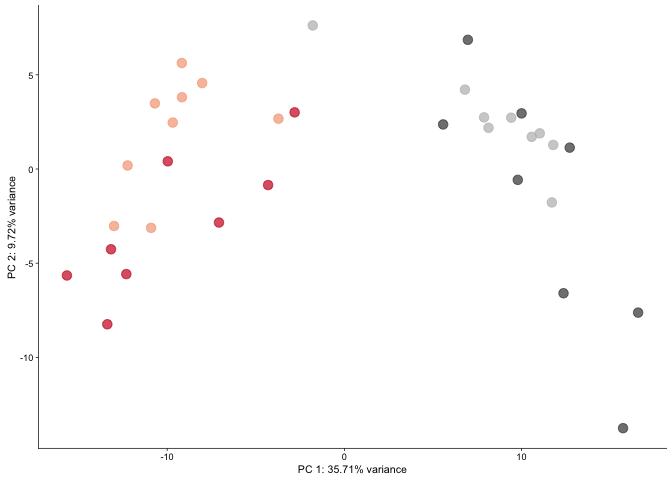
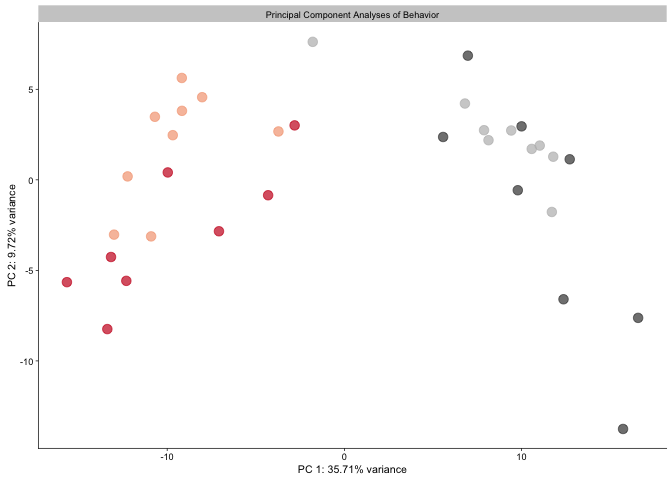
fixing figures links in md

diff --git a/RmdFiles/01b_behavior_figures.md b/RmdFiles/01b_behavior_figures.md
@@ -1,10 +1,11 @@
 After wrangling the behaivoral data in the previous script ([01a\_beahvior\_create\_dfs.Rmd](./01a_beahvior_create_dfs.Rmd)), conducted the analyses descirbed in this scipt. All plots are generate as **.png** files for markdown viewing and as **.pdf** files for incorporation to Adobe Illustrator.
 
-<img src="../figures/01_behavior/01_avoidancebehvaior-01.png" width="1370" />
+<img src="../figures/figures-01.png" width="1370" />
 
 ``` r
 library(ggplot2) ## for awesome plots!
 library(cowplot) ## for some easy to use themes
+library(plyr)
 library(dplyr) ## for filtering and selecting rows
 library(factoextra)  ##pca with vectors
 library(car) ## stats
@@ -13,7 +14,7 @@ library(pheatmap)  # for pretty heatmap
 library(viridis) # for awesome color pallette
 library(reshape2) ## for melting dataframe
 library(tidyr) ## for respahing data
-library(plyr)
+
 
 ## load user-written functions 
 source("functions_behavior.R")
@@ -52,14 +53,15 @@ behaviorwrap <- ggplot(threeplots, aes(x=, TrainSessionComboNum, y=m, color=APA2
    scale_y_continuous(name= NULL) +
     scale_x_continuous(name="Training Session", 
                        breaks = c(1, 2, 3, 4, 5, 6, 7, 8, 9),
-                       labels = NULL) +
+                       labels = c( "Hab.", "T1", "T2", "T3",
+                                   "Retest", "T4", "T5", "T6", "Reten.")) +
   theme_cowplot(font_size = 8, line_size = 0.25) +
   #background_grid(major = "y", minor = "y") +
   scale_color_manual(values = colorvalAPA00)  +
   theme(legend.position=c(0.7, 0.8))  +
   theme(legend.title=element_blank()) +
   theme(legend.position="none") +
-  facet_wrap(~measure, ncol=1, scales = "free")
+  facet_wrap(~measure, ncol=1, scales = "free_y")
 behaviorwrap
 ```
 
@@ -103,7 +105,8 @@ pheatmap(scaledaveragedata2, show_colnames=T, show_rownames = T,
          color = viridis(30),
          clustering_method="average",
          breaks=myBreaks,
-         clustering_distance_cols="correlation" 
+         clustering_distance_cols="correlation" ,
+         clustering_distance_rows = "correlation"
          )
 ```
 
@@ -286,15 +289,16 @@ TukeyHSD((aov(PC6 ~ APA2, data=scoresdf)), which = "APA2") # p > 0.05
     ## conflict-yoked-conflict          4.0343049 -0.06332378 8.1319336 0.0548778
 
 ``` r
+scoresdf$wrap <- "Principal Component Analyses of Behavior"
+
 pca12 <- ggplot(scoresdf, aes(PC1,PC2, color=APA2)) +
     geom_point(size=3, alpha = 0.7) +
     xlab(paste0("PC 1: ", percent[1],"% variance")) +
     ylab(paste0("PC 2: ", percent[2],"% variance")) +
-    #stat_ellipse(level = 0.95, (aes(color=avoidance)),size=0.25) + 
     scale_colour_manual(values=c(colorvalAPA00)) + 
-
     theme_cowplot(font_size = 8, line_size = 0.25) +
-      theme(legend.position="none")
+      theme(legend.position="none") +
+  facet_wrap(~wrap)
 pca12
 ```
 
@@ -317,47 +321,21 @@ pca16 <- ggplot(scoresdf, aes(PC1,PC6, color=APA2)) +
     stat_ellipse(level = 0.95, (aes(color=APA2)),size=0.25) + 
     scale_colour_manual(values=c(colorvalAPA00)) + 
     theme_cowplot(font_size = 8, line_size = 0.25) +
-      theme(legend.position="none")
+      theme(legend.position="none") +
+  facet_wrap(~wrap)
 pca16
 ```
 
 ![](../figures/01_behavior/PCAplots-2.png)
 
 ``` r
-pdf(file="../figures/01_behavior/pca16.pdf",  width=3.5, height=2)
+pdf(file="../figures/01_behavior/pca16.pdf",  width=3.25, height=2.25)
 plot(pca16)
 dev.off()
 ```
 
     ## quartz_off_screen 
     ##                 2
-
-PC2 and 9 also difference by p &lt; 0.01.
-
-``` r
-aov9 <- aov(PC9 ~ APA2, data=scoresdf)
-summary(aov9) # p =  0.018
-```
-
-    ##             Df Sum Sq Mean Sq F value Pr(>F)  
-    ## APA2         3  105.2   35.05   3.916  0.018 *
-    ## Residuals   30  268.5    8.95                 
-    ## ---
-    ## Signif. codes:  0 '***' 0.001 '**' 0.01 '*' 0.05 '.' 0.1 ' ' 1
-
-``` r
-TukeyHSD(aov9, which = "APA") # p = 0.0939973 for conflict-consistent 
-```
-
-    ## Warning in qtukey(conf.level, length(means), x$df.residual): NaNs produced
-
-    ##   Tukey multiple comparisons of means
-    ##     95% family-wise confidence level
-    ## 
-    ## Fit: aov(formula = PC9 ~ APA2, data = scoresdf)
-    ## 
-    ## $<NA>
-    ##      diff lwr upr p adj
 
 Here are some stats modeling combinatorail PCs. I'm really not sure if this makes sense. I should probabaly model some behavior time interaction....
 
